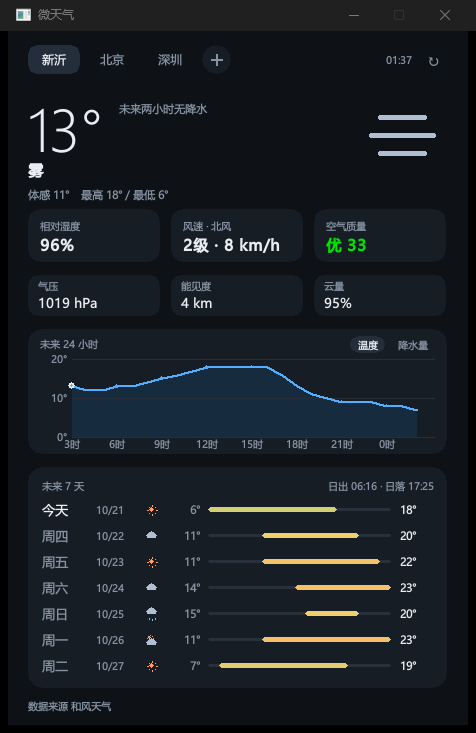
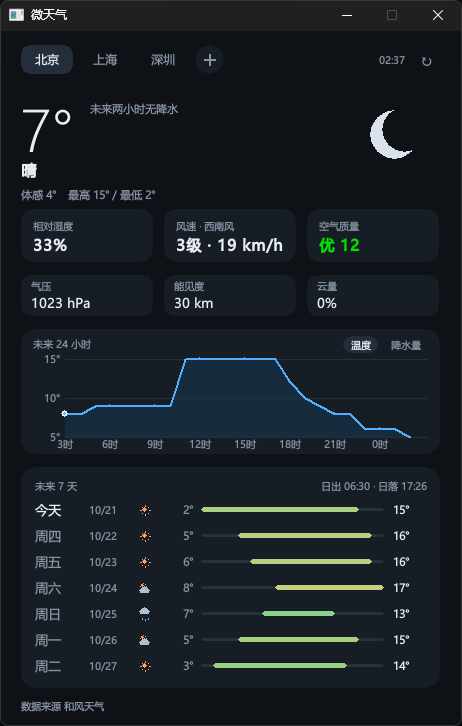
docs: README 精简为使用向说明，去掉技术细节；更新预览截图

diff --git a/README.md b/README.md
@@ -1,45 +1,10 @@
 # 微天气 · MiniWeather
 
-一个极简的 Windows 桌面天气应用：**纯 Win32 API + GDI 绘制，C 语言，零第三方库**。
-整个程序就是一个 exe，没有安装包、没有运行时、没有 Electron。
+一个极简的 Windows 桌面天气应用，纯 Win32 API + GDI 绘制。
+
+目标是内存占用尽可能低。实测内存占用低于 10 MB。
 
 ![预览](docs/preview.png)
-
-## 为什么这样写
-
-目标很明确：内存占用尽可能低。所以没有选 Web 技术栈，也没有用 .NET —— 直接用 Win32 的子窗口/消息循环，
-界面全部用 GDI 画在窗口客户区里（标签、按钮、图标都是自绘，没有用任何控件）。
-
-| 指标 | 实测 |
-| --- | --- |
-| 可执行文件 | 238 KB（静态链接 CRT） |
-| 私有内存 | ~7.8 MB |
-| 工作集合 | ~23 MB（其中大部分是 winhttp / crypt32 等系统 DLL 的共享页） |
-| 句柄 | ~326 |
-| 线程 | 1 个自建后台线程 + WinHTTP 内部线程 |
-| 第三方依赖 | 无（只用系统自带的 winhttp / gdi32 / user32 / advapi32 / shell32） |
-| 空闲 CPU | 0%（定时器 10 分钟一次刷新） |
-
-## 功能
-
-- **数据源可切换**：配好和风天气（QWeather）就用和风（中国区 3–5 km、支持区县），没配置则自动用 Open-Meteo
-- 顶部常用城市标签栏，最多 5 个城市，点击切换、**拖拽排序**、悬停出 `×` 删除，`+` 号搜索新城市
-- 右上角刷新按钮，配合自动刷新（和风 15 分钟 / Open-Meteo 10 分钟）
-- 当前温度、天气现象、体感温度、当日最高/最低
-- 相对湿度、**风速与风向（含蒲福风力等级）**、空气质量（AQI，按等级着色）
-- 次要数据单独一行小卡片：**气压 / 能见度 / 云量**
-- 未来 24 小时图表：**「温度 / 降水量」双标签**切换，带 Y 轴刻度与横向网格线
-- 7 天预报，温度区间条按温度着色，小标题带日出日落
-- 大号温度右侧显示分钟级降水摘要（和风中国区独有，字数多时自动换行）
-- 城市搜索：内置地理编码，支持中文城市名（和风可到区县）
-- 深色界面，跟随系统 DPI 缩放，双缓冲绘制无闪烁
-
-## 快捷键
-
-| 操作 | 说明 |
-| --- | --- |
-| `F5` | 立即刷新 |
-| `C` | 打开城市输入框（回车确认，Esc 取消） |
 
 ## 构建
 
@@ -50,33 +15,7 @@ build.bat
 build\weather.exe
 ```
 
-`build.bat` 会自己定位 cl.exe 与 SDK 的 include/lib 目录，**不需要**先打开 VS 开发者命令行，
-也不依赖 `vcvars64.bat`。若要换路径，改脚本顶部的 `VSDIR` / `KITS` 两个变量即可。
-
-## 测试
-
-```bat
-build.bat test
-```
-
-编译 `tests/test_json.c`，用 `tests/sample.json`（真实 API 响应留档）跑一遍解析自检，
-覆盖：字段提取、数组对齐、缺失键、越界索引、残缺/非法输入、`\uXXXX` 与代理对。
-
-再跑 `tests/test_gunzip.c`，用 `tests/qweather_24h.gz`（和风真实 gzip 响应）验证自写的
-inflate：解压正确性、解压后可解析、截断数据被拒绝。
-
-`tools/` 下是开发辅助程序（不参与打包）：
-
-- `shot.c` —— 把运行中的窗口截成原始位图，配合 `tools/raw2png.py` 生成 PNG（文档截图用）
-- `uitest.c` —— 交互冒烟测试：加城市、切标签、点删除、悬停、拖拽排序、刷新
-
-```bat
-build.bat shot
-build\uitest.exe add 杭州                       :: 打开输入框 → 输入 → 回车
-build\uitest.exe click 116 29                   :: 客户端坐标点击（切标签 / 点 × / 点刷新）
-build\uitest.exe drag 46 29 150 29              :: 按住第一个标签拖到右侧
-build\uitest.exe hoverreal 46 29
-```
+`build.bat` 会自己定位 cl.exe 与 SDK 的 include/lib 目录。若要换路径，改脚本顶部的 `VSDIR` / `KITS` 两个变量即可。
 
 ## 目录结构
 
@@ -95,11 +34,10 @@ tests/        JSON / gzip 自检用例 + 真实响应样本
 tools/        截图与交互测试小工具
 ```
 
-## 数据与隐私
+## 数据源
 
 默认走 [Open-Meteo](https://open-meteo.com/)：免注册、免 Key、非商用免费，但地理编码只到地级市。
-配上和风天气后自动切换，中国区精度与区县覆盖都更好（详见
-[docs/weather-api-survey.md](docs/weather-api-survey.md)）。
+配上和风天气后自动切换，中国区精度与区县覆盖都更好（详见[docs/weather-api-survey.md](docs/weather-api-survey.md)）。
 
 ### 启用和风天气
 
@@ -124,28 +62,3 @@ HKEY_CURRENT_USER\Software\MiniWeather
   QwHost = REG_SZ        'xxxxx.re.qweatherapi.com'
   QwKey  = REG_SZ        '...'
 ```
-
-首次运行若检测到旧版的 `%APPDATA%\MiniWeather\config.txt`，会自动迁移成一条城市记录。
-清空这个注册表键即恢复默认（北京 + Open-Meteo）。
-
-> Key 以明文存在 HKCU 下（仅当前用户可读）。若这台机器多人共用，建议先用
-> `--reset-api` 清掉，或改用系统凭据管理器保管。注意：Key 一旦出现在截图/聊天记录里，
-> 最稳妥的做法是去控制台轮换一次。
-
-客户端只发送经纬度（或你输入的城市名），不发送任何设备标识。
-
-> 和风比 Open-Meteo 多出来的数据（中国标准 AQI、分钟级降水）以及哪些数据包不在免费订阅内，
-> 见 [docs/weather-api-survey.md](docs/weather-api-survey.md) 第六节。
-> 接和风后每轮刷新是 5 个请求，所以自动刷新间隔从 10 分钟放宽到 15 分钟（≈480 次/天，额度 1000/天）。
-
-## 已知限制
-
-- 仅支持 Windows 10 及以上（用到 `GetDpiForSystem`、`SetProcessDpiAwarenessContext`，缺失时自动降级）
-- 窗口固定尺寸，不支持拖拽缩放
-- 城市名较长且数量到上限时，标签文字会自动省略
-- 网络走系统代理设置，需要能访问 `api.open-meteo.com`
-
-## 许可
-
-[MIT](LICENSE)
-
